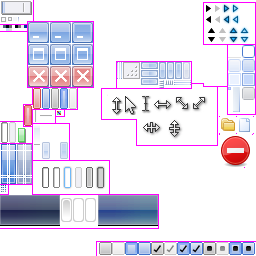
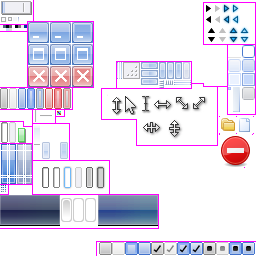
arrow key movement

Changed region(s): [[0.0, 0.3125, 0.3125, 0.5]]

diff --git a/api/gui.cpp b/api/gui.cpp
@@ -54,10 +54,10 @@ uint32_t TEXTBOX_SELECTED_COLOR_2 = 0xFFDDDDDD;
 uint32_t DISABLE_TEXT_SHADOWS = 1;
 
 // TODO Keyboard controls.
-// 	- Up/down/left/right
-// 	- Enter/escape/space
+// 	- Space to invoke focused buttons
+// 	- Enter and escape in dialog boxes
 // 	- Keyboard shortcuts and access keys
-// 	- Make buttons focusable? 
+// 	- List view navigation
 // TODO Send repeat messages for held left press? Scrollbar buttons, scrollbar nudges, scroll-selections.
 // TODO Minor menu[bar] border adjustments; menu icons.
 // TODO Calculator textbox - selection extends out of top of textbox
@@ -139,19 +139,14 @@ static UIImage progressBarBackground 	= {{1, 8, 122, 143}, {3, 6, 125, 139}};
 static UIImage progressBarDisabled   	= {{9, 16, 122, 143}, {11, 14, 125, 139}};
 static UIImage progressBarPellet     	= {{18, 26, 128, 143}, {18, 18, 128, 128}};
 
-#ifndef SUPER_COOL_BUTTONS
-static UIImage buttonNormal		= {{51, 59, 88, 109}, {51 + 3, 51 + 5, 91, 106}, OS_DRAW_MODE_STRECH};
-static UIImage buttonDragged		= {{9 + 51, 9 + 59, 88, 109}, {9 + 54, 9 + 56, 91, 106}, OS_DRAW_MODE_STRECH};
-static UIImage buttonHover		= {{-9 + 51, -9 + 59, 88, 109}, {-9 + 54, -9 + 56, 91, 106}, OS_DRAW_MODE_STRECH};
-static UIImage buttonDisabled		= {{18 + 51, 18 + 59, 88, 109}, {18 + 54, 18 + 56, 91, 106}, OS_DRAW_MODE_STRECH};
-static UIImage buttonDangerousDragged	= {{24, 32, 105, 126}, {24 + 3, 24 + 5, 105 + 10, 105 + 11}};
-static UIImage buttonDangerousHover	= {{-18 + 51, -18 + 59, 88, 109}, {-18 + 54, -18 + 56, 98, 99}};
-#else
-static UIImage buttonNormal		= {{86 + 76, 86 + 76 + 86, 194, 194 + 29}, {86 + 76 + 43, 86 + 76 + 44, 194 + 14, 194 + 15}};
-static UIImage buttonDragged		= {{76, 76 + 86, 29 + 194, 29 + 194 + 29}, {76 + 43, 76 + 44, 29 + 194 + 14, 29 + 194 + 15}};
-static UIImage buttonHover		= {{76, 76 + 86, 194, 194 + 29}, {76 + 43, 76 + 44, 194 + 14, 194 + 15}};
-static UIImage buttonDisabled		= {{86 + 76, 86 + 76 + 86, 29 + 194, 29 + 194 + 29}, {86 + 76 + 43, 86 + 76 + 44, 29 + 194 + 14, 29 + 194 + 15}};
-#endif
+static UIImage buttonNormal		= {{0 * 9 + 0, 0 * 9 + 8, 88, 109}, {0 * 9 + 3, 0 * 9 + 5, 91, 106}, OS_DRAW_MODE_STRECH };
+static UIImage buttonDisabled		= {{1 * 9 + 0, 1 * 9 + 8, 88, 109}, {1 * 9 + 3, 1 * 9 + 5, 91, 106}, OS_DRAW_MODE_STRECH };
+static UIImage buttonHover		= {{2 * 9 + 0, 2 * 9 + 8, 88, 109}, {2 * 9 + 3, 2 * 9 + 5, 91, 106}, OS_DRAW_MODE_STRECH };
+static UIImage buttonPressed		= {{3 * 9 + 0, 3 * 9 + 8, 88, 109}, {3 * 9 + 3, 3 * 9 + 5, 91, 106}, OS_DRAW_MODE_STRECH };
+static UIImage buttonFocused		= {{4 * 9 + 0, 4 * 9 + 8, 88, 109}, {4 * 9 + 3, 4 * 9 + 5, 91, 106}, OS_DRAW_MODE_STRECH };
+static UIImage buttonDangerousHover	= {{5 * 9 + 0, 5 * 9 + 8, 88, 109}, {5 * 9 + 3, 5 * 9 + 5, 91, 106}, OS_DRAW_MODE_STRECH };
+static UIImage buttonDangerousPressed	= {{6 * 9 + 0, 6 * 9 + 8, 88, 109}, {6 * 9 + 3, 6 * 9 + 5, 91, 106}, OS_DRAW_MODE_STRECH };
+static UIImage buttonDangerousFocused	= {{7 * 9 + 0, 7 * 9 + 8, 88, 109}, {7 * 9 + 3, 7 * 9 + 5, 91, 106}, OS_DRAW_MODE_STRECH };
 
 static UIImage checkboxHover		= {{99, 112, 242, 255}, {99, 100, 242, 243}};
 
@@ -303,14 +298,16 @@ static UIImage *buttonBackgrounds[] = {
 	&buttonNormal,
 	&buttonDisabled,
 	&buttonHover,
-	&buttonDragged,
+	&buttonPressed,
+	&buttonFocused,
 };
 
 static UIImage *buttonDangerousBackgrounds[] = {
 	&buttonNormal,
 	&buttonDisabled,
 	&buttonDangerousHover,
-	&buttonDangerousDragged,
+	&buttonDangerousPressed,
+	&buttonDangerousFocused,
 };
 
 static UIImage *progressBarBackgrounds[] = {
@@ -411,6 +408,7 @@ struct Control : GUIObject {
 
 		additionalCheckedBackgrounds : 1,
 		additionalCheckedIcons : 1,
+		hasFocusedBackground : 1,
 		centerIcons : 1,
 		iconHasVariants : 1,
 
@@ -740,7 +738,18 @@ static void SetGUIObjectProperty(GUIObject *object, OSMessage *message) {
 	}
 }
 
-static void OSSetFocusedControl(Control *control) {
+OSObject OSGetFocusedControl(OSObject _window, bool ignoreWeakFocus) {
+	Window *window = (Window *) _window;
+
+	if (ignoreWeakFocus) {
+		return window->focus;
+	} else {
+		return window->lastFocus;
+	}
+}
+
+void OSSetFocusedControl(OSObject _control) {
+	Control *control = (Control *) _control;
 	Window *window = control->window;
 	OSMessage message;
 
@@ -820,7 +829,7 @@ static OSCallbackResponse ProcessControlMessage(OSObject _object, OSMessage *mes
 		} break;
 
 		case OS_MESSAGE_KEY_PRESSED: {
-			if (control->tabStop && control->window->lastFocus != control && message->keyboard.scancode == OS_SCANCODE_TAB) {
+			if (control->tabStop && control->window->lastFocus != control) {
 				OSSetFocusedControl(control);
 			} else {
 				response = OS_CALLBACK_NOT_HANDLED;
@@ -840,7 +849,7 @@ static OSCallbackResponse ProcessControlMessage(OSObject _object, OSMessage *mes
 #endif
 
 				bool menuSource;
-				bool normal, hover, pressed, disabled;
+				bool normal, hover, pressed, disabled, actuallyPressed;
 				uint32_t textShadowColor, textColor;
 
 				OSRectangle contentBounds = control->bounds;
@@ -875,9 +884,10 @@ static OSCallbackResponse ProcessControlMessage(OSObject _object, OSMessage *mes
 					}
 				}
 
-				disabled = control->disabled,
-				pressed = ((control->window->pressed == control && control->window->hover == control) || control->window->focus == control || menuSource) && !disabled,
-				hover = (control->window->hover == control || control->window->pressed == control) && !pressed && !disabled,
+				actuallyPressed = (control->window->pressed == control && control->window->hover == control);
+				disabled = control->disabled;
+				pressed = (actuallyPressed || (control->window->focus == control && control->window->hover != control && control->window->pressed != control) || menuSource) && !disabled;
+				hover = (control->window->hover == control || control->window->pressed == control) && !pressed && !disabled;
 				normal = !hover && !pressed && !disabled;
 
 				control->current1 = ((normal   ? 15 : 0) - control->from1) * control->animationStep / control->finalAnimationStep + control->from1;
@@ -900,8 +910,9 @@ static OSCallbackResponse ProcessControlMessage(OSObject _object, OSMessage *mes
 					}
 
 					if (control->backgrounds[offset + 3] && control->current3) {
-						OSDrawSurfaceClipped(message->paint.surface, OS_SURFACE_UI_SHEET, control->bounds, control->backgrounds[offset + 3]->region, 
-								control->backgrounds[offset + 3]->border, control->backgrounds[offset + 3]->drawMode, 
+						uintptr_t index = offset + 3 + (control->hasFocusedBackground && !actuallyPressed && !menuSource ? 1 : 0);
+						OSDrawSurfaceClipped(message->paint.surface, OS_SURFACE_UI_SHEET, control->bounds, control->backgrounds[index]->region, 
+								control->backgrounds[index]->border, control->backgrounds[index]->drawMode, 
 								control->current3 == 15 ? 0xFF : 0xF * control->current3, message->paint.clip);
 					}
 
@@ -1765,6 +1776,9 @@ OSObject OSCreateButton(OSCommand *command, OSButtonStyle style) {
 		control->backgrounds = toolbarItemBackgrounds;
 		control->additionalCheckedBackgrounds = true;
 	} else {
+		control->focusable = true;
+		control->hasFocusedBackground = true;
+
 		if (control->checkable) {
 			control->textAlign = OS_DRAW_STRING_VALIGN_CENTER | OS_DRAW_STRING_HALIGN_LEFT;
 			control->icon = &checkboxHover;
@@ -2492,7 +2506,7 @@ OSObject OSCreateListView(unsigned flags) {
 	OSSetCallback(control, OS_MAKE_CALLBACK(ProcessListViewMessage, nullptr));
 	OSSetObjectNotificationCallback(control->scrollbar, OS_MAKE_CALLBACK(ListViewScrollbarMoved, control));
 
-	control->lastClickedRow = -1;
+	control->lastClickedRow = 0;
 	control->highlightRow = -1;
 
 	{
@@ -2849,6 +2863,16 @@ void OSAddControl(OSObject _grid, unsigned column, unsigned row, OSObject _contr
 	}
 }
 
+static uintptr_t FindObjectInGrid(Grid *grid, OSObject object) {
+	for (uintptr_t i = 0; i < grid->columns * grid->rows; i++) {
+		if (grid->objects[i] == object && object) {
+			return i;
+		}
+	}
+
+	return grid->columns * grid->rows;
+}
+
 static OSCallbackResponse ProcessGridMessage(OSObject _object, OSMessage *message) {
 	OSCallbackResponse response = OS_CALLBACK_HANDLED;
 	Grid *grid = (Grid *) _object;
@@ -3144,51 +3168,77 @@ static OSCallbackResponse ProcessGridMessage(OSObject _object, OSMessage *messag
 		} break;
 
 		case OS_MESSAGE_KEY_PRESSED: {
-			if (message->keyboard.scancode == OS_SCANCODE_TAB 
-					&& !message->keyboard.ctrl && !message->keyboard.alt) {
-				int delta = message->keyboard.shift ? -1 : 1;
-				int start = message->keyboard.shift ? grid->columns * grid->rows - 1 : 0;
-				int end = message->keyboard.shift ? -1 : grid->columns * grid->rows;
+			response = OS_CALLBACK_NOT_HANDLED;
 
-				OSObject previousFocus = message->keyboard.notHandledBy;
-				retryTab:;
-				intptr_t i = 0;
+			if (message->keyboard.ctrl || message->keyboard.alt) {
+				break;
+			}
 
-				for (; i < grid->columns * grid->rows; i++) {
-					if (grid->objects[i] == previousFocus && previousFocus) {
-						break;
-					}
-				}
+			OSObject previousFocus = message->keyboard.notHandledBy;
+			int delta, start, end, i = FindObjectInGrid(grid, previousFocus);
+			bool loopAround, foundFirstTime = i != (int) (grid->columns * grid->rows);
 
-				if (i == grid->columns * grid->rows) {
-					i = start;
+			if (message->keyboard.scancode == OS_SCANCODE_TAB) {
+				delta = message->keyboard.shift ? -1 : 1;
+				start = message->keyboard.shift ? grid->columns * grid->rows - 1 : 0;
+				end = message->keyboard.shift ? -1 : grid->columns * grid->rows;
+				loopAround = false;
+			} else if (message->keyboard.scancode == OS_SCANCODE_LEFT_ARROW && foundFirstTime) {
+				delta = -1;
+				end = i - (i % grid->columns) - 1;
+				start = end + grid->columns;
+				loopAround = true;
+			} else if (message->keyboard.scancode == OS_SCANCODE_UP_ARROW && foundFirstTime) {
+				delta = -grid->columns;
+				end = (i % grid->columns) - grid->columns;
+				start = end + grid->columns * grid->rows;
+				loopAround = true;
+			} else if (message->keyboard.scancode == OS_SCANCODE_DOWN_ARROW && foundFirstTime) {
+				delta = grid->columns;
+				start = (i % grid->columns);
+				end = start + grid->columns * grid->rows;
+				loopAround = true;
+			} else if (message->keyboard.scancode == OS_SCANCODE_RIGHT_ARROW && foundFirstTime) {
+				delta = 1;
+				start = i - (i % grid->columns);
+				end = start + grid->columns;
+				loopAround = true;
+			} else {
+				break;
+			}
+
+			retryTab:;
+			i = FindObjectInGrid(grid, previousFocus);
+
+			if (i == (int) (grid->columns * grid->rows)) {
+				i = start;
+			} else {
+				i += delta;
+			}
+
+			while (i != end) {
+				if (grid->objects[i] && grid->objects[i]->tabStop && !grid->objects[i]->disabled) {
+					break;
 				} else {
 					i += delta;
 				}
+			}
 
-
-				while (i != end) {
-					if (grid->objects[i] && grid->objects[i]->tabStop && !grid->objects[i]->disabled) {
-						break;
-					} else {
-						i += delta;
-					}
-				}
-
-				if (i == end) {
-					// We're out of tab-stops in this grid.
-					response = OS_CALLBACK_NOT_HANDLED;
-				} else {
-					OSObject focus = grid->objects[i];
-					response = OSSendMessage(focus, message);
-
-					if (response == OS_CALLBACK_NOT_HANDLED) {
-						previousFocus = focus;
-						goto retryTab;
-					}
-				}
-			} else {
+			if (i == end && !loopAround) {
+				// We're out of tab-stops in this grid.
 				response = OS_CALLBACK_NOT_HANDLED;
+			} else {
+				if (loopAround && i == end) {
+					i = start;
+				}
+
+				OSObject focus = grid->objects[i];
+				response = OSSendMessage(focus, message);
+
+				if (response == OS_CALLBACK_NOT_HANDLED) {
+					previousFocus = focus;
+					goto retryTab;
+				}
 			}
 		} break;
 
@@ -3930,7 +3980,7 @@ static OSCallbackResponse ProcessWindowMessage(OSObject _object, OSMessage *mess
 				OSSendMessage(window, message);
 			} else if (message->keyboard.scancode == OS_SCANCODE_F2 && message->keyboard.alt) {
 				EnterDebugger();
-			} else if (window->lastFocus) {
+			} else {
 				OSCallbackResponse response = OS_CALLBACK_NOT_HANDLED;
 
 				if (window->focus) {
@@ -3942,7 +3992,7 @@ static OSCallbackResponse ProcessWindowMessage(OSObject _object, OSMessage *mess
 				message->keyboard.notHandledBy = nullptr;
 				message->type = OS_MESSAGE_KEY_PRESSED;
 
-				while (response == OS_CALLBACK_NOT_HANDLED && control != window) {
+				while (control && control != window && response == OS_CALLBACK_NOT_HANDLED) {
 					response = OSSendMessage(control, message);
 					message->keyboard.notHandledBy = control;
 					control = (GUIObject *) control->parent;

diff --git a/api/os.h b/api/os.h
@@ -1007,6 +1007,9 @@ OS_EXTERN_C OSObject OSCreateScrollbar(bool orientation);
 OS_EXTERN_C OSObject OSCreateListView(unsigned flags);
 #define OSCreateIndeterminateProgressBar() OSCreateProgressBar(0, 0, 0)
 
+OS_EXTERN_C void OSSetFocusedControl(OSObject control);
+OS_EXTERN_C OSObject OSGetFocusedControl(OSObject window, bool ignoreWeakFocus);
+
 OS_EXTERN_C void OSSetProgressBarValue(OSObject control, int newValue);
 
 OS_EXTERN_C void OSListViewInsert(OSObject listView, int32_t index, int32_t count);

diff --git a/desktop/main.cpp b/desktop/main.cpp
@@ -175,8 +175,8 @@ extern "C" void ProgramEntry() {
 #else
 	{
 		for (int i = 0; i < 1; i++) {
-			// const char *path = "/OS/calculator";
-			const char *path = "/OS/test";
+			const char *path = "/OS/calculator";
+			// const char *path = "/OS/test";
 			// const char *path = "/OS/file_manager";
 			OSProcessInformation process;
 			OSCreateProcess(path, OSCStringLength((char *) path), &process, nullptr);
